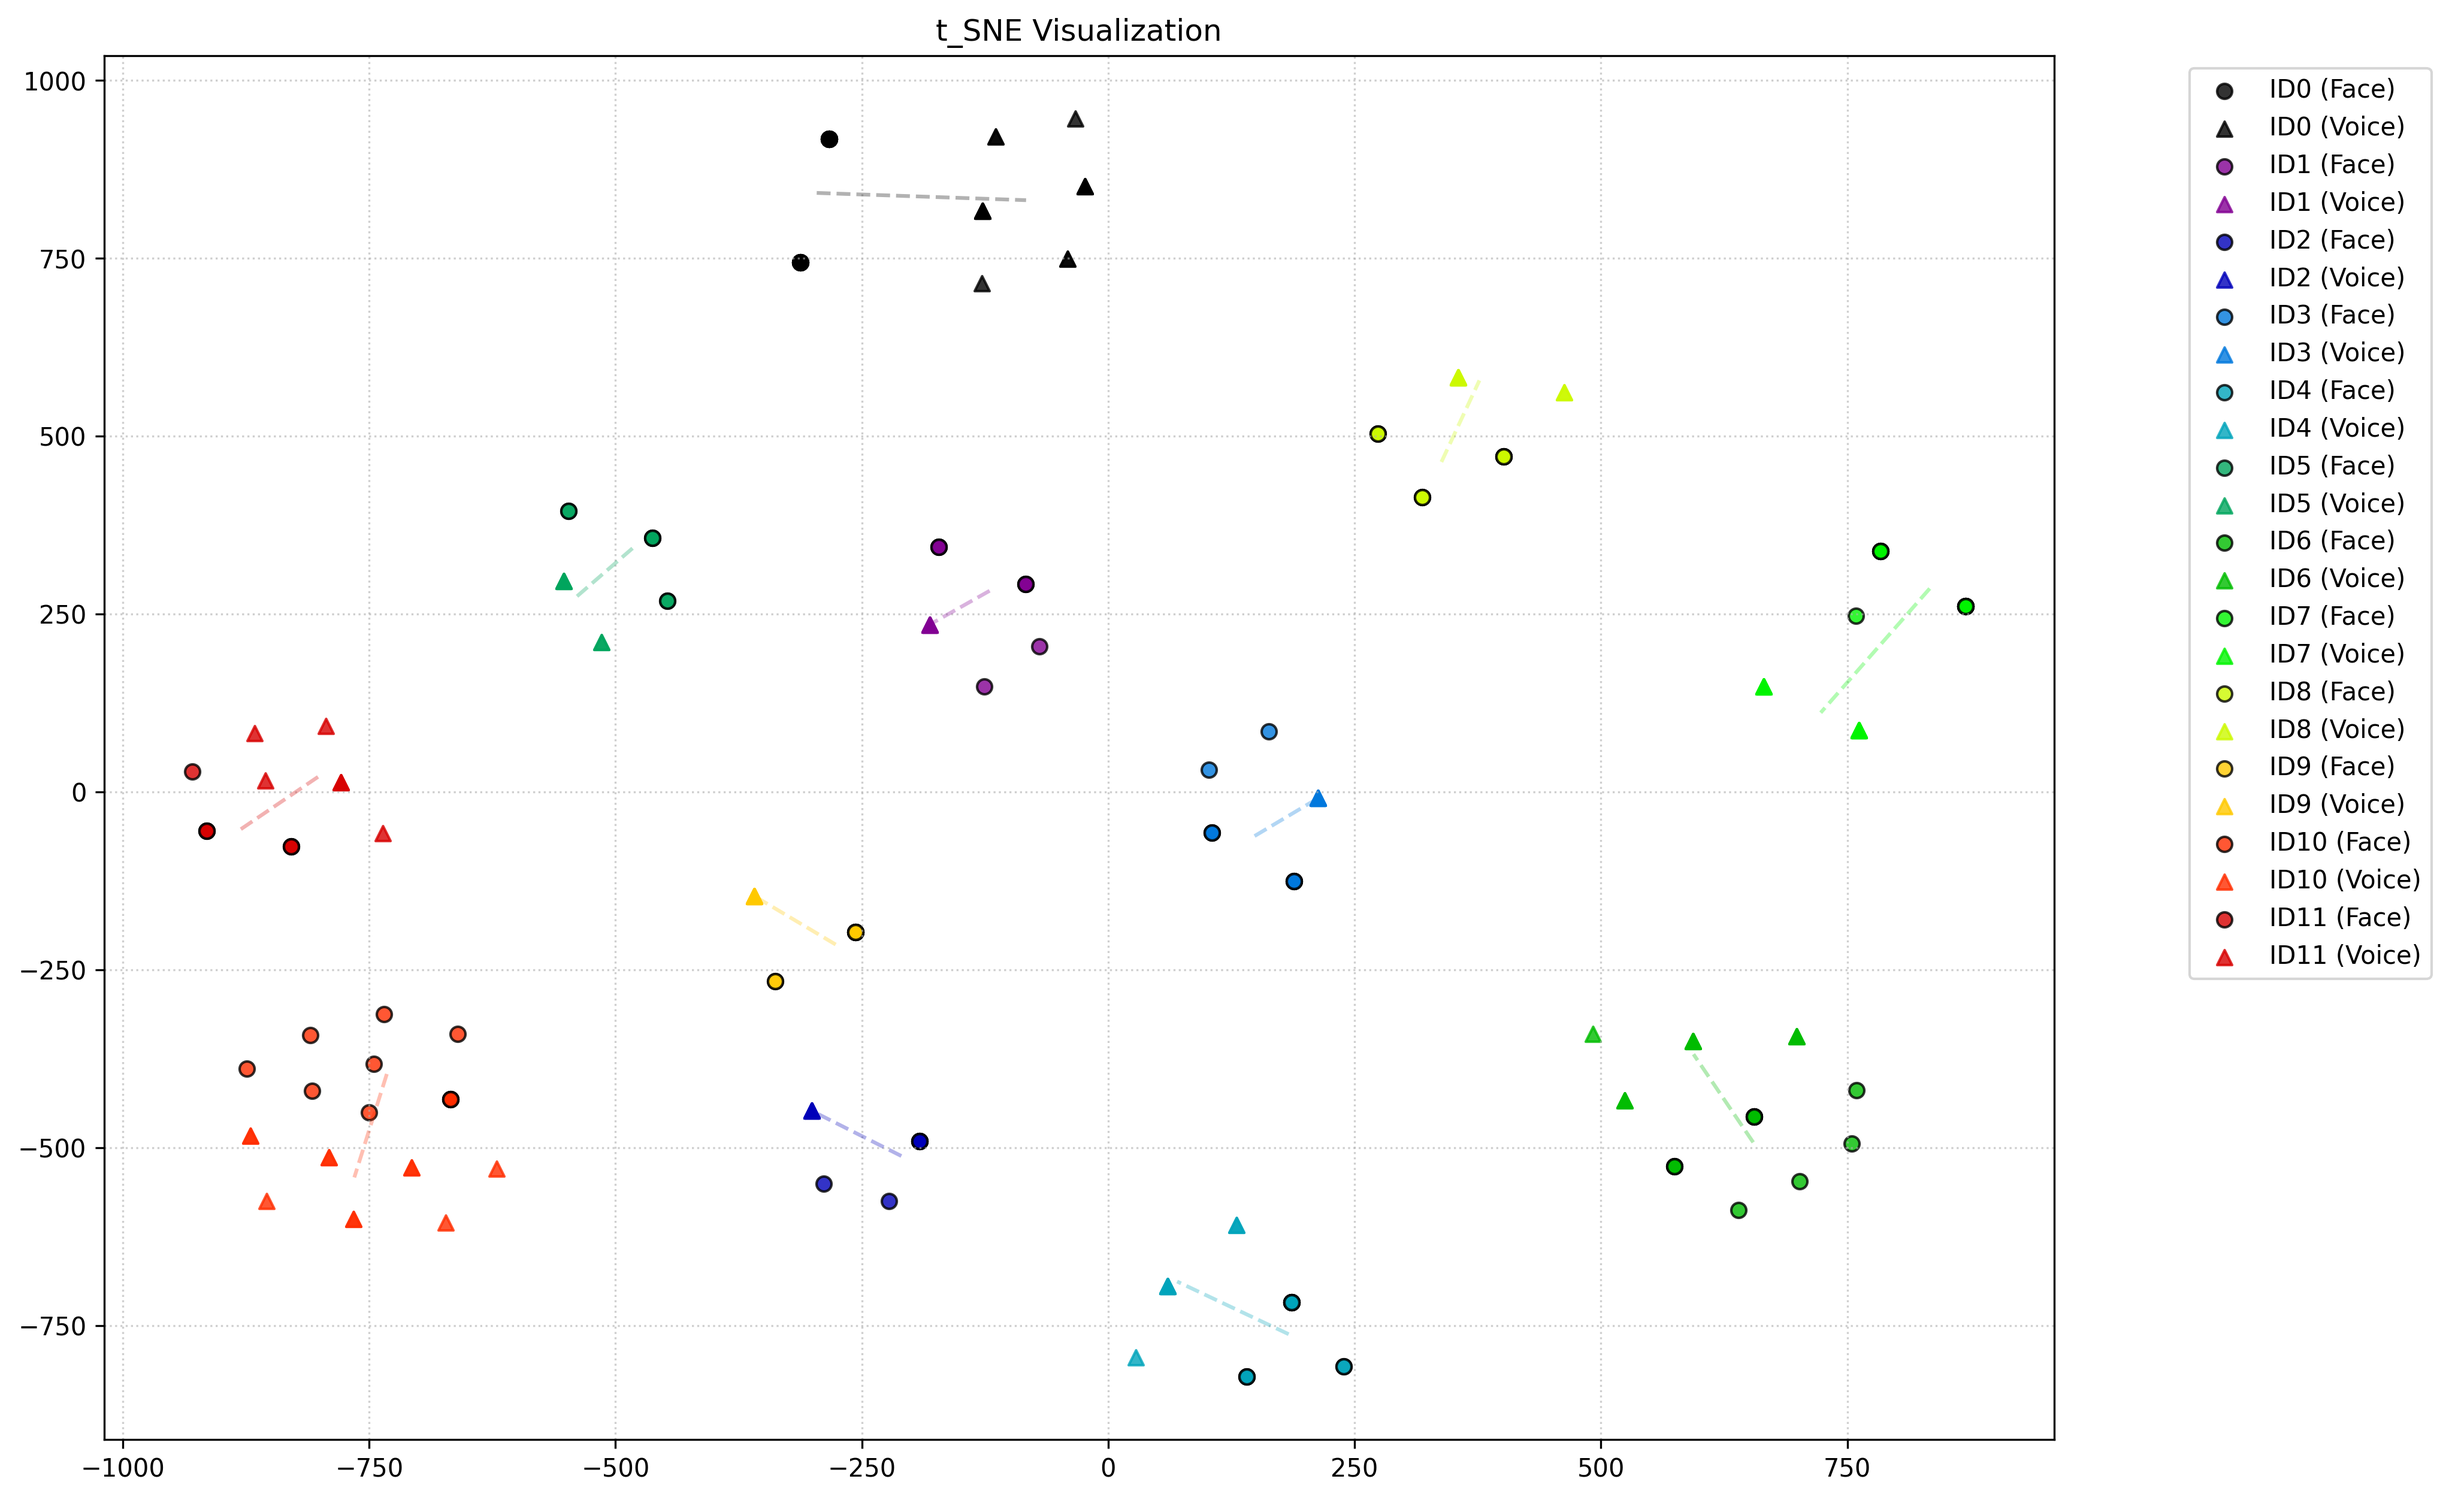
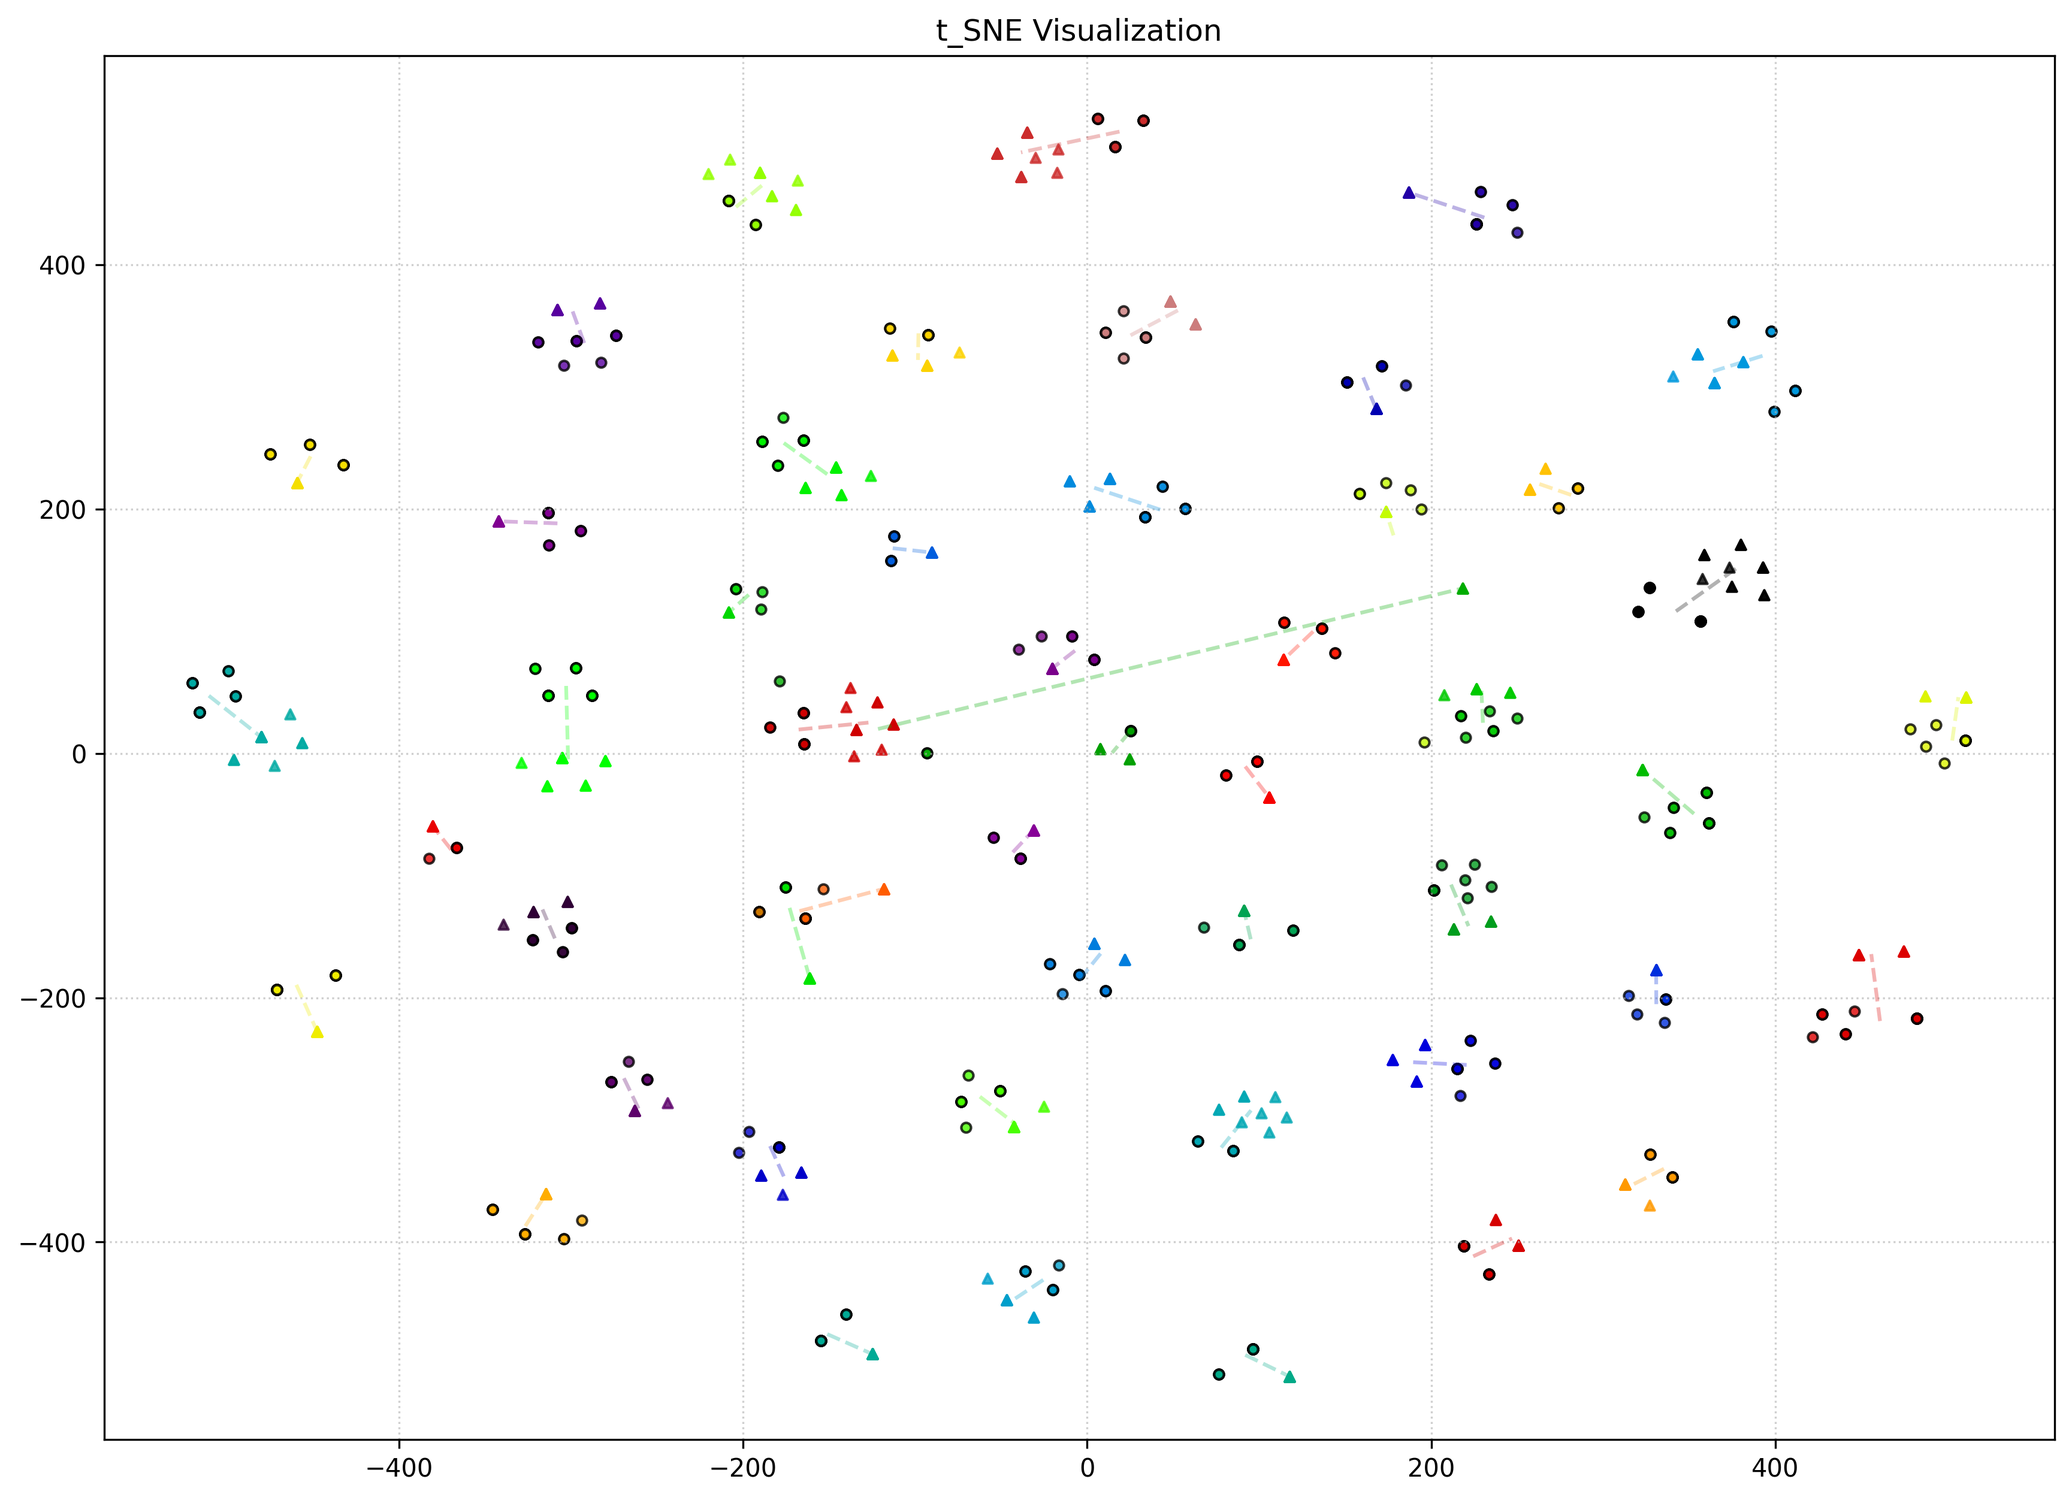
scaled up tsne and umap to 50 ids and added umap comparisons, both behave very well even at 50 IDS

diff --git a/umap_vis.py b/umap_vis.py
@@ -1,3 +1,4 @@
+import umap
 import torch.nn.functional as F
 import torch
 import matplotlib.pyplot as plt 
@@ -11,7 +12,7 @@ from models import ModalityTranslator
 DEVICE = torch.device("cuda" if torch.cuda.is_available() else "cpu")
 TEST_DIR  =r"C:\Users\Axiuc\Downloads\mavceleb_embeddings"
 
-def visualize_tsne():
+def visualize_umap():
     print("Loading Data...")
 
     dataset = EmbeddingDataset(TEST_DIR)
@@ -40,7 +41,7 @@ def visualize_tsne():
             f_512 = face_translator(face_emb).cpu()
             v_512 = voice_translator(voice_emb).cpu()
 
-            # normalize so the math doesn't explode and they live on the same scale
+            # normalize so they live on the same scale
             f_512 = F.normalize(f_512, p=2, dim=1).cpu()
             v_512 = F.normalize(v_512, p=2, dim=1).cpu()
 
@@ -57,40 +58,35 @@ def visualize_tsne():
     all_v = torch.cat(voice_vectors, dim=0)
 
     all_vectors_tensor = torch.cat([all_f, all_v], dim=0)
-    # the magic trick: subtract the mean so the face and voice clouds overlap
+
     all_vectors_tensor = all_vectors_tensor - all_vectors_tensor.mean(dim = 0, keepdim= True)
     all_vectors_tensor = F.normalize(all_vectors_tensor, p=2, dim=1)
     all_vectors = all_vectors_tensor.numpy()
     
+    print('Running UMAP...')
 
-    # using cosine metric because that's how we trained it with the alignment loss
-    tsne = TSNE(
-        n_components=2, 
-        perplexity=25,
-        early_exaggeration = 24.0,       
-        metric='cosine',     
-        init='pca',          
-        learning_rate='auto', 
-        max_iter=2500,       
+    reducer = umap.UMAP(
+        n_neighbors=30, 
+        min_dist=0.3, 
+        metric='cosine', 
         random_state=42
     )
     
-    embeddings_2d = tsne.fit_transform(all_vectors)
+    embeddings_2d = reducer.fit_transform(all_vectors)
 
     half = len(embeddings_2d) // 2
     face_2d = embeddings_2d[:half]
     voice_2d = embeddings_2d[half:]
     plot_labels = labels_list
 
-    plt.figure(figsize = (14,10)) 
+    print('Generating Plot...')
+    plt.figure(figsize = (14,10))
 
     unique_labels = np.unique(plot_labels)
-    # rainbow spectrum instead of paired colors so they are all completely different
     cmap = plt.cm.get_cmap('nipy_spectral') 
 
     for i, label in enumerate(unique_labels):
         idx = np.where(np.array(plot_labels) == label)[0]
-        
         color = cmap(i / len(unique_labels))
 
         plt.scatter(face_2d[idx,0], face_2d[idx, 1], color=color, marker ='o',s=15, label = f'ID{label} (Face)', alpha = 0.8, edgecolors ='k')
@@ -100,12 +96,12 @@ def visualize_tsne():
         v_mean = voice_2d[idx].mean(axis=0)
         plt.plot([f_mean[0], v_mean[0]], [f_mean[1], v_mean[1]], color=color, linestyle ='--', alpha = 0.3)
 
-    plt.title("t_SNE Visualization") 
+    plt.title("UMAP Visualization of Aligned Modalities") 
     # plt.legend(loc = 'upper right', bbox_to_anchor = (1.20, 1), ncol=1)
     plt.grid(True, linestyle=':', alpha = 0.6)
 
-    plt.savefig("face_voice_tsne.png", bbox_inches = 'tight', dpi=300)
+    plt.savefig("face_voice_umap.png", bbox_inches = 'tight', dpi=300) 
     plt.show()
 
 if __name__ == "__main__":
-    visualize_tsne()
+    visualize_umap()
